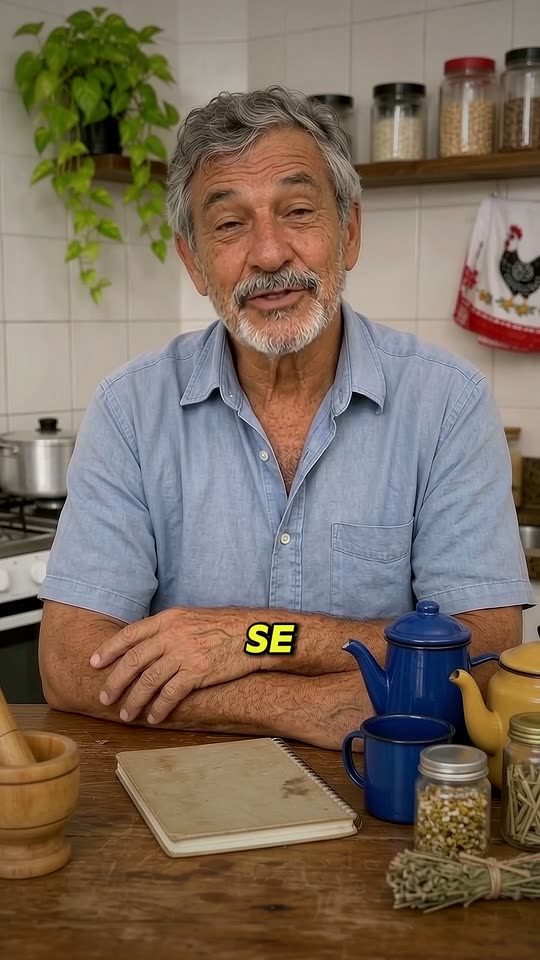
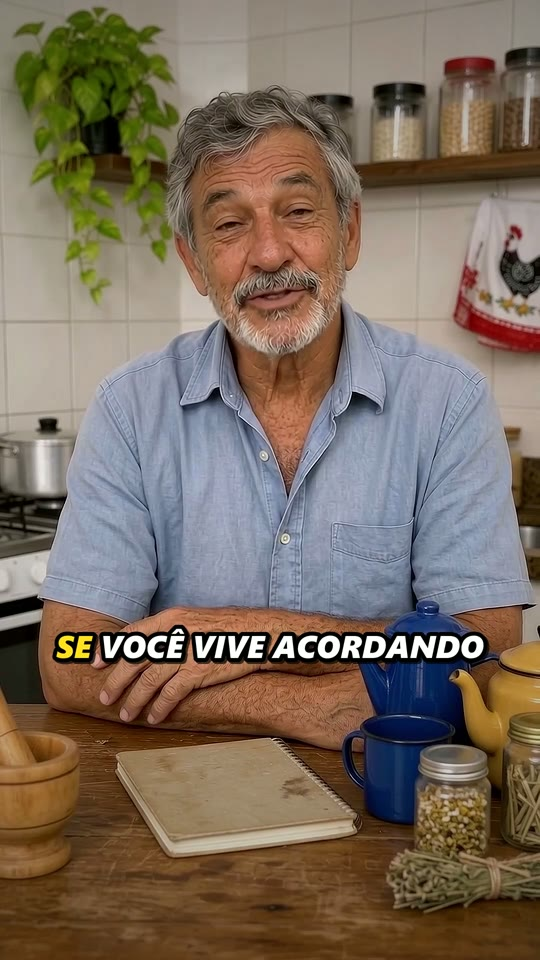
Troca a VSL pela versão 2.0 editada com trilha sonora

Changed region(s): [[0.0889, 0.625, 0.9185, 0.7188]]

diff --git a/index.html b/index.html
@@ -369,7 +369,7 @@ footer a{color:#d4c79f}
          mexer na barra de progresso; o script também desfaz qualquer avanço ou retrocesso. -->
     <div class="vsl-moldura">
       <div class="vsl">
-        <iframe id="vsl" src="https://player.vimeo.com/video/1248033234?autoplay=1&amp;muted=0&amp;controls=0&amp;playsinline=1&amp;title=0&amp;byline=0&amp;portrait=0&amp;keyboard=0&amp;pip=0&amp;dnt=1" allow="autoplay; fullscreen" title="Vídeo: conheça O Manual dos Antigos"></iframe>
+        <iframe id="vsl" src="https://player.vimeo.com/video/1248826871?autoplay=1&amp;muted=0&amp;controls=0&amp;playsinline=1&amp;title=0&amp;byline=0&amp;portrait=0&amp;keyboard=0&amp;pip=0&amp;dnt=1" allow="autoplay; fullscreen" title="Vídeo: conheça O Manual dos Antigos"></iframe>
         <button class="trava" id="travaVsl" type="button" aria-label="Pausar ou continuar o vídeo">
           <span class="bola"><svg viewBox="0 0 24 24"><path d="M8 5v14l11-7z"/></svg></span>
         </button>
